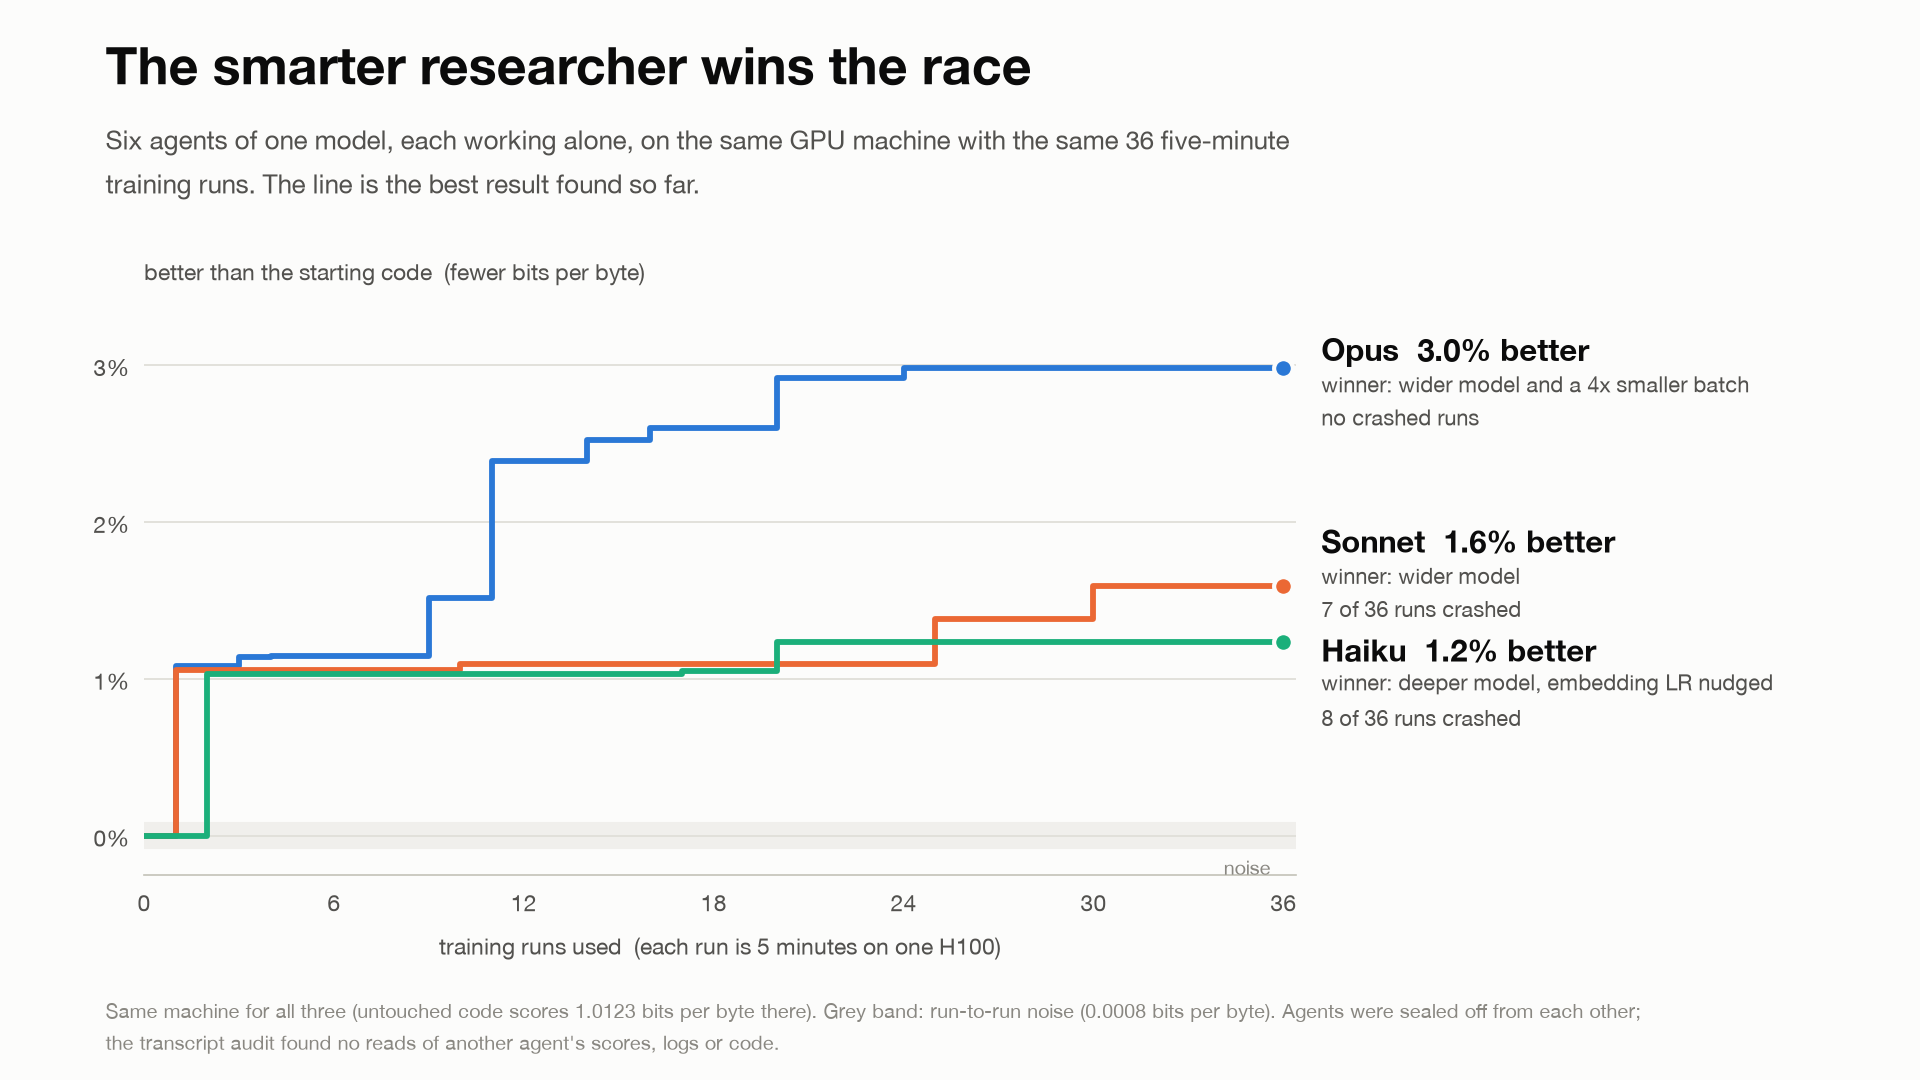
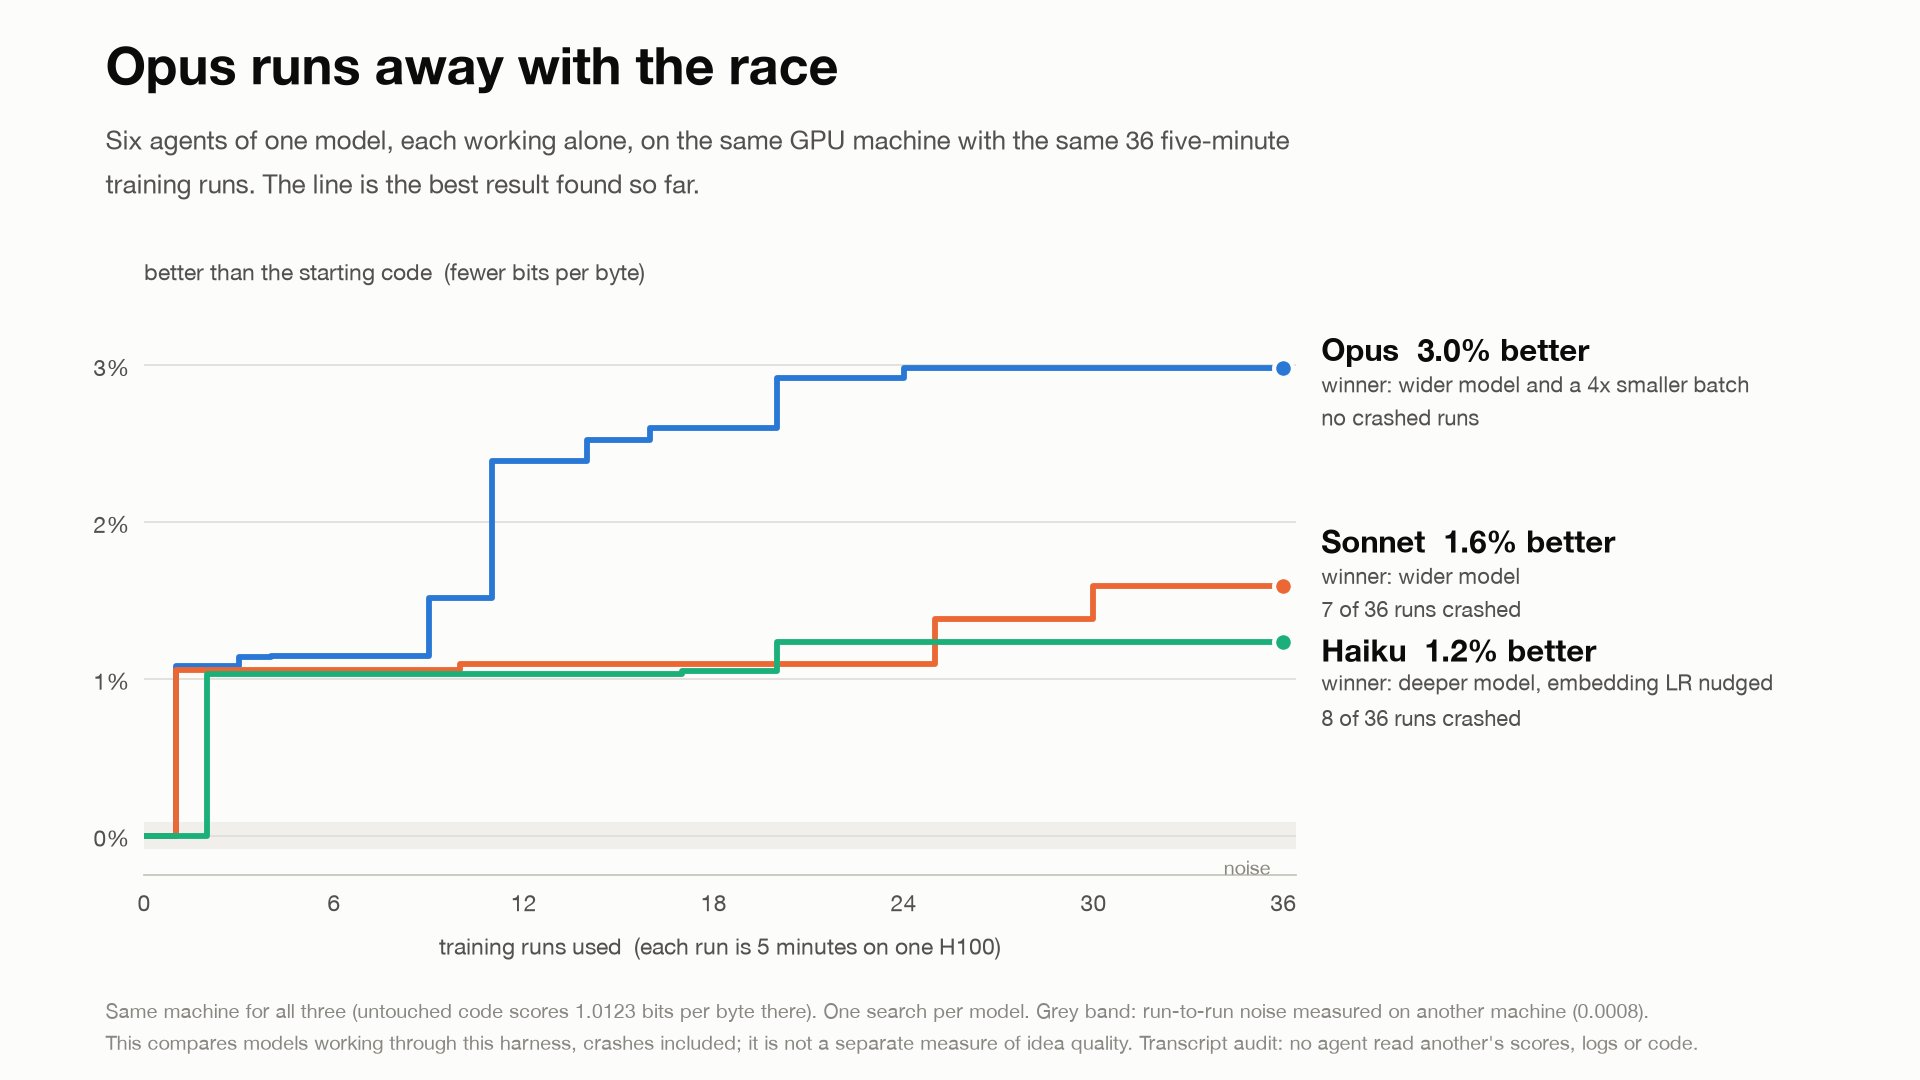
Slide figures: captions aligned with the cautious one-pager (one search per arm, mixed headcount effects)

Changed region(s): [[0.0625, 0.9167, 0.875, 0.9778], [0.0312, 0.0306, 0.5312, 0.0917]]

diff --git a/analysis/slides_figures.py b/analysis/slides_figures.py
@@ -131,12 +131,12 @@ def fig1():
              ("Sonnet", "indep_sonnet_6_iso", "winner: wider model"),
              ("Haiku", "indep_haiku_6_iso", "winner: deeper model, embedding LR nudged")]
     b0 = baseline("indep_opus_6_iso")
-    fig = frame("The smarter researcher wins the race",
+    fig = frame("Opus runs away with the race",
                 "Six agents of one model, each working alone, on the same GPU machine with the same 36 five-minute\n"
                 "training runs. The line is the best result found so far.",
-                f"Same machine for all three (untouched code scores {b0:.4f} bits per byte there). Grey band: run-to-run noise "
-                f"({NOISE_BPB} bits per byte). Agents were sealed off from each other;\n"
-                "the transcript audit found no reads of another agent's scores, logs or code.")
+                f"Same machine for all three (untouched code scores {b0:.4f} bits per byte there). One search per model. Grey band: run-to-run noise "
+                f"measured on another machine ({NOISE_BPB}).\nThis compares models working through this harness, crashes included; "
+                "it is not a separate measure of idea quality. Transcript audit: no agent read another's scores, logs or code.")
     ax = fig.add_axes([0.075, 0.19, 0.60, 0.53])
     style(ax)
     noise = NOISE_BPB / b0 * 100
@@ -173,12 +173,12 @@ def fig2():
         ("Haiku", "shared log", {1: ["open_haiku_1"], 3: ["open_haiku_3"], 6: ["open_haiku_6"]}, False),
         ("Haiku", "rounds", {1: ["haiku_1"], 3: ["haiku_3"], 6: ["haiku_6"]}, True),
     ]
-    fig = frame("Six heads beat one, if the heads are good",
-                "Each line is one model and workflow on one machine. Every team size gets the same 36 experiments,\n"
-                "so extra agents add thinking, not compute. 1x means no better than a single agent.",
-                "Progress = improvement over the untouched code, divided by the one-agent improvement on the same line. Haiku's gains are only 2 to 7 times "
-                "run noise, so its ratios swing on noise.\nRound cells ended short of 36 runs: Opus 34 (3 and 6 agents), Sonnet 32 to 33, Haiku 20 to 28 (hollow). "
-                "Opus shared log at 6 agents is the mean of two seeds (1.17x and 1.26x).")
+    fig = frame("Adding agents is not a reliable multiplier",
+                "Each line is one model and workflow on one machine, with the same 36 experiments at every team size, so extra agents\n"
+                "add thinking, not compute. At three agents, three lines rose and three fell; at six, three rose and both Haiku lines fell.",
+                "Progress = improvement over the untouched code, divided by the one-agent improvement on the same line. One search per point.\n"
+                "Haiku's gains are only 2 to 7 times run noise, so its ratios swing on noise. Round cells ended short of 36 runs: Opus 34 (3 and 6 agents),\n"
+                "Sonnet 32 to 33, Haiku 20 to 28 (hollow). Opus shared log at 6 agents is the mean of two seeds (1.17x and 1.26x).")
     ax = fig.add_axes([0.075, 0.19, 0.56, 0.53])
     style(ax)
     ax.axhline(1, color=INK2, linewidth=1.1, zorder=2)
@@ -318,9 +318,8 @@ def fig4():
     fig = frame("Sharing everything did not beat seeing nothing",
                 "Six Opus agents on one machine, 36 experiments each. One team shared a research log (scores, findings, code).\n"
                 "The other ran in sealed-off copies with no way to see each other.",
-                "One seed per arm. Rerunning one setup with a new seed moved its score by 0.15 and 0.24 points (Monday's machine), so a 0.22 gap cannot be "
-                "told from chance.\nAn earlier 'independent' control leaked (agents could read a shared score table). This rerun replaced it; "
-                "a transcript audit found no peer access.")
+                "One search per arm: the isolated team did not do worse, which is not the same as the two being equal, and no threshold follows from one pair.\n"
+                "An earlier 'independent' control leaked (agents could read a shared score table). This rerun replaced it; a transcript audit found no peer access.")
     ax = fig.add_axes([0.075, 0.19, 0.56, 0.53])
     style(ax)
     rows = [("shared a research log", "open_opus_6_iso", MODEL["Opus"]),
@@ -354,7 +353,7 @@ def fig4():
     ya.set_ylim(0, 0.34)
     ya.axis("off")
     ya.text(0, 0.40, "How big is that gap?", fontsize=12.5, fontweight="bold", color=INK, va="bottom")
-    ya.text(0, 0.375, "in points of improvement", fontsize=9.5, color=MUTED, va="top")
+    ya.text(0, 0.375, "in points; grey bars are from another machine", fontsize=9.5, color=MUTED, va="top")
     bars = [(gap, "this gap", MODEL["Opus"]),
             (wobble_open, "shared log,\nrerun with a\nnew seed", AXIS),
             (wobble_leaky, "earlier control,\nrerun with a\nnew seed", AXIS)]
@@ -399,7 +398,7 @@ def fig5():
                 f"The final model stacks changes found by {len(authors)} of the 6 agents.",
                 f"Grey dots: every experiment ({len(runs) - len(steps)} of {len(runs)} did not set a new best). 'Adopted by': other agents "
                 "pulled that code into their own work after reading its score in the log.\n"
-                "Collaboration clearly happened. On the same budget, six agents that could not see each other scored at least as well (chart 4).")
+                "Collaboration clearly happened. Whether it beats working alone is chart 4: in the one matched pair, the isolated team found the better result.")
     ax = fig.add_axes([0.075, 0.19, 0.50, 0.53])
     style(ax)
     for x, pct, c in runs:

diff --git a/analysis_out/figures/README.md b/analysis_out/figures/README.md
@@ -5,8 +5,8 @@ Regenerate with `python -m analysis.slides_figures`. Every number is read from `
 
 | file | what it shows | the line to say | caveat to say |
 |---|---|---|---|
-| `fig1_model_race.png` | Opus, Sonnet and Haiku, six isolated agents each, same machine, 36 runs | The model is the biggest lever: Opus 3.0% better, Sonnet 1.6%, Haiku 1.2%, and the weaker models crash a fifth of their runs | One seed per model |
-| `fig2_headcount.png` | Progress of 3 and 6 agents relative to 1 agent, per model and workflow, within one machine | Six beat one for Opus (1.2x, 1.5x) and Sonnet rounds (3.1x); three agents do not reliably beat one; Haiku gets nothing | Extra agents add thinking, not compute: same 36 runs at every size. Haiku ratios are mostly noise |
+| `fig1_model_race.png` | Opus, Sonnet and Haiku, six isolated agents each, same machine, 36 runs | Same machine and budget: Opus 3.0% better, Sonnet 1.6%, Haiku 1.2%; Sonnet and Haiku lost about a fifth of their runs | One search per model; models through this harness, not idea quality alone |
+| `fig2_headcount.png` | Progress of 3 and 6 agents relative to 1 agent, per model and workflow, within one machine | Mixed: six beat one for Opus (1.2x, 1.5x) and Sonnet rounds (3.1x); three beat one in two lines; Haiku shared log got worse at six | Extra agents add thinking, not compute: same 36 runs at every size. Haiku ratios are mostly noise |
 | `fig3_herding.png` | What each of six Opus agents tried, blind rounds vs the shared log | Rounds herd (vertical stripes: all 12 proposals in rounds 2 and 3 included the same change); the shared log divides the work (horizontal stripes) | Idea families are hand-coded from the agents' run titles |
-| `fig4_sharing_vs_isolation.png` | Six Opus agents sharing a log vs six sealed off from each other, same machine | Sharing everything did not beat seeing nothing: 2.76% vs 2.98% | One seed per arm; the 0.22 gap sits between the two seed-to-seed swings we measured (0.15, 0.24) |
+| `fig4_sharing_vs_isolation.png` | Six Opus agents sharing a log vs six sealed off from each other, same machine | Sharing everything did not beat seeing nothing: 2.76% vs 2.98% | One search per arm: the isolated team did not do worse; that is not equivalence, and no threshold follows from one pair |
 | `fig5_relay.png` | How the six shared-log agents built their best result, record by record | One result, five authors: every record was adopted by 3 to 5 other agents | Collaboration happened; it did not beat isolation (fig 4) |
